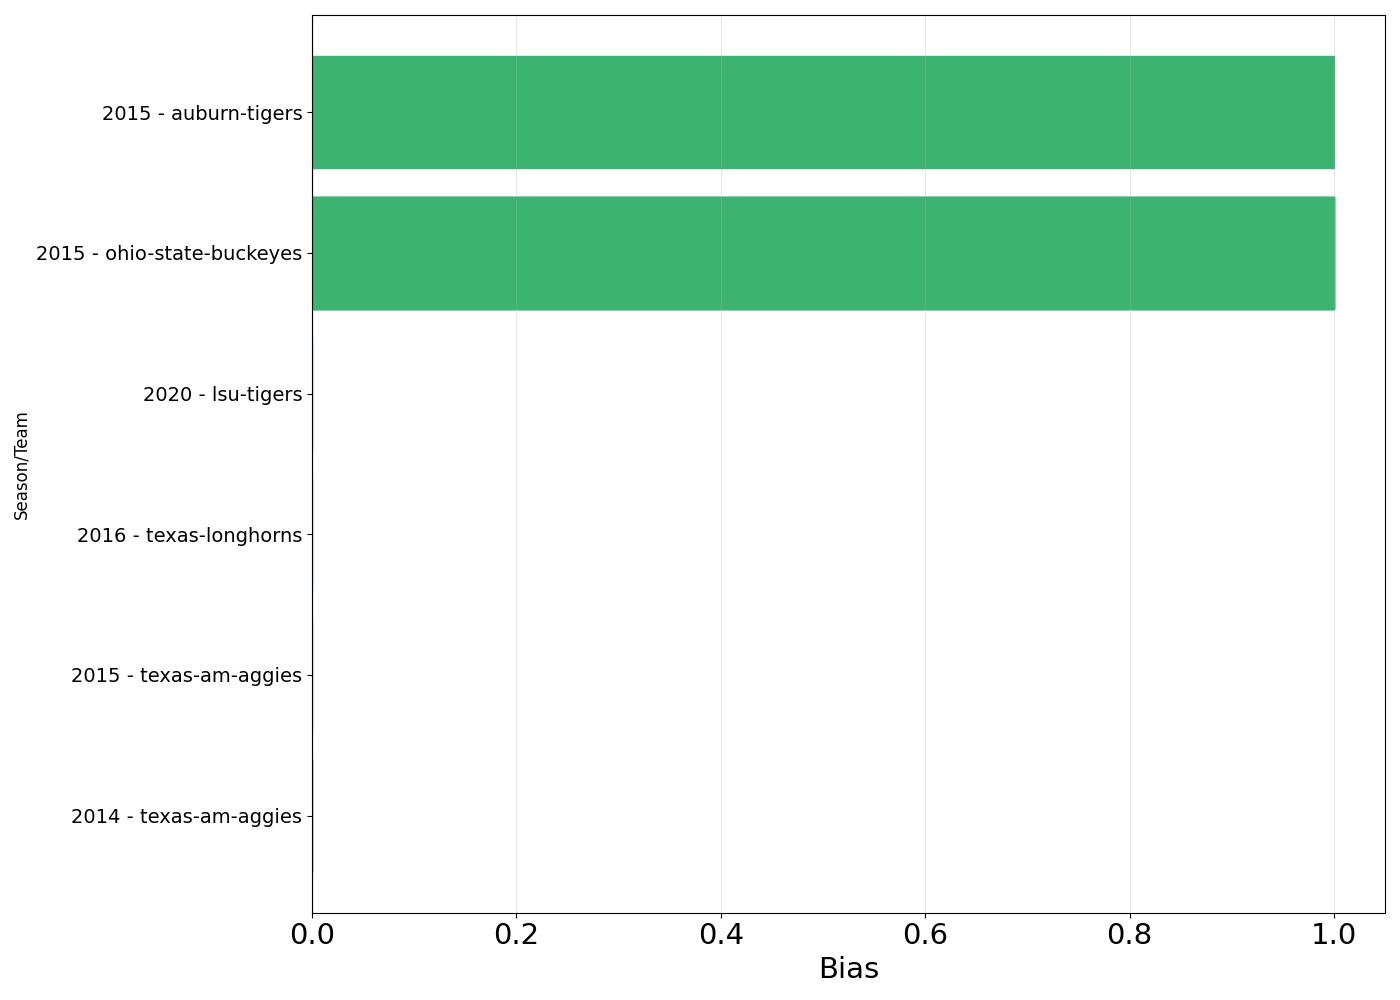
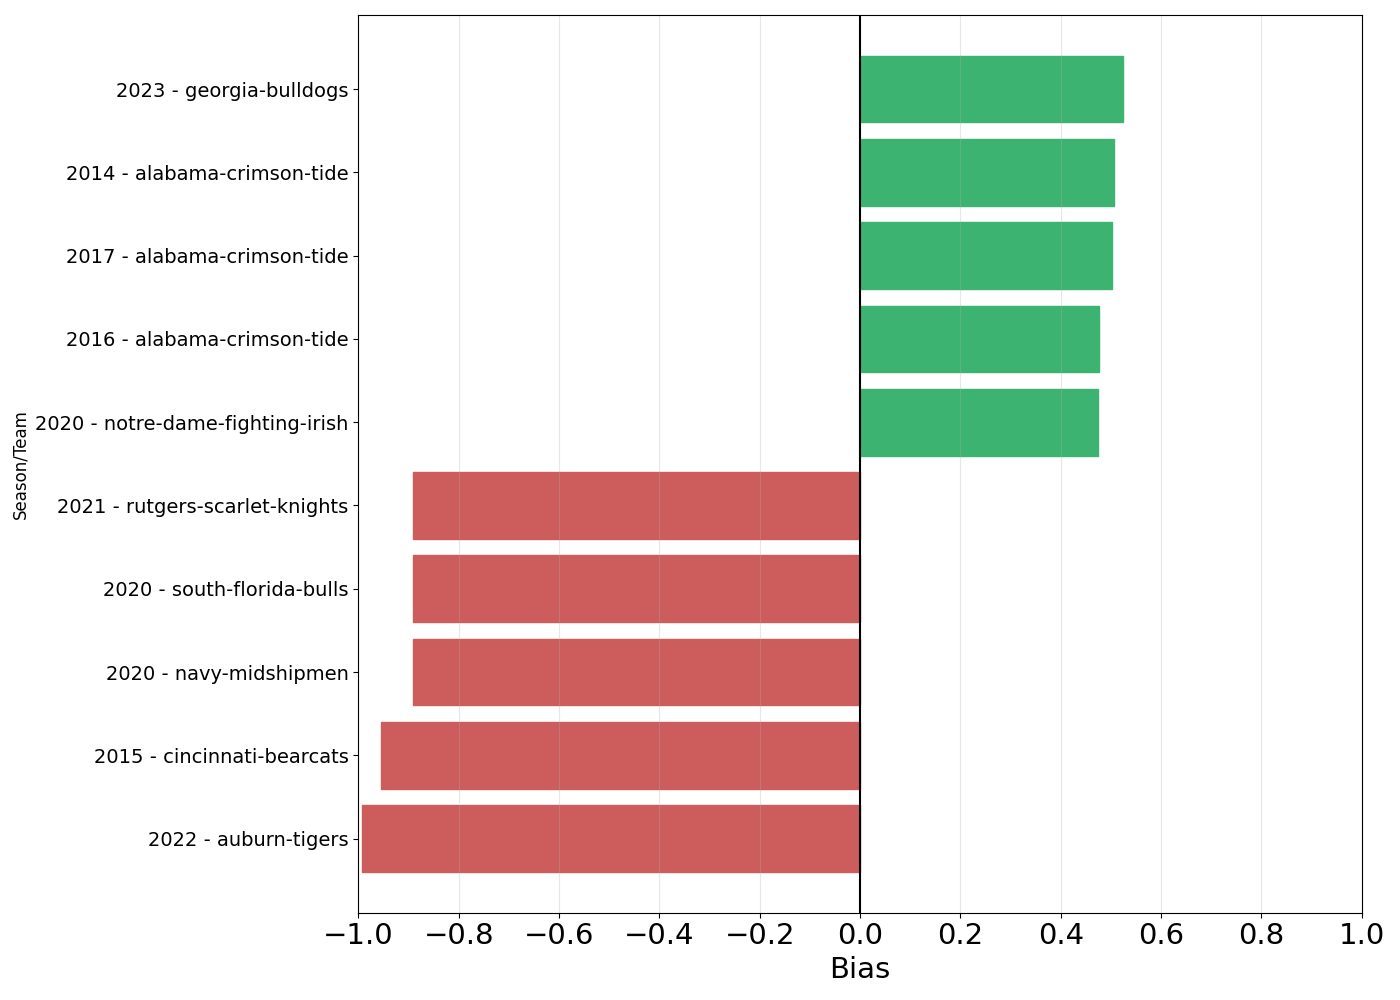
relative bias bar chart updates

diff --git a/scripts/create_visuals.py b/scripts/create_visuals.py
@@ -206,11 +206,11 @@ def create_svc_graph(input_csv: str):
     plt.axvline(x=0, color='black', linestyle='-', linewidth=0.8)
 
     plt.xticks([-1, -0.8, -0.6, -0.4, -0.2, 0, 0.2, 0.4, 0.6, 0.8, 1], fontsize=21) 
+    plt.xlim(-0.5, 0.5)
     plt.yticks(values, y_ticks, fontsize=21) 
     plt.ylabel('Conference', fontsize=21)
     plt.xlabel('Bias', fontsize=21)
     plt.grid(True, alpha=0.3, axis='x')
-    plt.xlim(-0.5, 0.5)
     plt.tight_layout()
     plt.savefig('conference_bias.png')
 
@@ -246,7 +246,7 @@ def create_voterteam_pair(input_csv: str, master_csv: str, min_votes: int = 500)
     plt.tight_layout()
     plt.savefig('voterteam_bias.png')
 
-def create_seasonteam_pair(input_csv: str):
+def create_seasonteam_pair_old(input_csv: str):
     df = pd.read_csv(input_csv)
     df = df.sort_values('bias1-a')
     
@@ -359,7 +359,7 @@ def create_svc_graph_uncorrected(input_csv: str):
     plt.tight_layout()
     plt.savefig('conference_bias.png')
 
-def create_voterteam_pair(input_csv: str, master_csv: str, min_votes: int = 500):
+def create_voterteam_pair(input_csv: str, master_csv: str, min_votes: int = 0):
     analysis_df = pd.read_csv(master_csv)
     voter_vote_counts = analysis_df.groupby('pollster (v)').size().reset_index()
     voter_vote_counts.columns = ['voter', 'total_votes']
@@ -371,6 +371,7 @@ def create_voterteam_pair(input_csv: str, master_csv: str, min_votes: int = 500)
     df = df[df['total_votes'] >= min_votes]
     
     df = df.sort_values('bias1-a')
+    df['bias1-a'] = df['bias1-a'] * 2 - 1
     bottom_5 = df.head(5)
     top_5 = df.tail(5)
     df_plot = pd.concat([bottom_5, top_5])
@@ -393,11 +394,15 @@ def create_voterteam_pair(input_csv: str, master_csv: str, min_votes: int = 500)
 
 def create_seasonteam_pair(input_csv: str):
     df = pd.read_csv(input_csv)
+    df = df.groupby(['season', 'team']).agg({'bias1-a': 'mean'}).reset_index()
     df = df.sort_values('bias1-a')
+    df['bias1-a'] = df['bias1-a'] * 2 - 1
+    print(df)
     
     bottom_5 = df.head(5)
     top_5 = df.tail(5)
     print("TOP", top_5)
+    print("BOTTOM 5", bottom_5)
     df_plot = pd.concat([bottom_5, top_5])
     
     df_plot['label'] = df_plot['season'].astype(str) + ' - ' + df_plot['team']
@@ -411,6 +416,8 @@ def create_seasonteam_pair(input_csv: str):
         print(bar)
         bar.set_color(color)
     
+    plt.xticks([-1, -0.8, -0.6, -0.4, -0.2, 0, 0.2, 0.4, 0.6, 0.8, 1], fontsize=21) 
+    plt.xlim(-1, 1)
     plt.xticks(fontsize=21) 
     plt.yticks(fontsize=14) 
     plt.axvline(x=0, color='black', linestyle='-', linewidth=1.5)
@@ -483,6 +490,7 @@ def create_seasonteam_pair_nc(input_csv: str):
 
 if __name__ == "__main__":
     #graph_weekly_bias("/Users/albertbogdan/IML-FALL2025---Voter-Bias/results/cfb/output_data/season_week_relative.csv")
-    create_svc_graph("results/cfb/output_data/conference_bias_relative.csv")
+    #create_svc_graph("results/cfb/output_data/conference_bias_relative.csv")
     # create_voterteam_pair_nc("output_data/cfb/average_biases/average_biases.csv", "output_data/cfb/cfb_master_bias.csv")
-    #create_voterteam_pair("/Users/albertbogdan/IML-FALL2025---Voter-Bias/results/cfb/output_data/voter_team_relative.csv", "/Users/albertbogdan/IML-FALL2025---Voter-Bias/results/cfb/original_data/master_bias_relative.csv")
+    create_voterteam_pair("/Users/albertbogdan/IML-FALL2025---Voter-Bias/results/cfb/output_data/voter_team_relative.csv", "/Users/albertbogdan/IML-FALL2025---Voter-Bias/results/cfb/original_data/master_bias_relative.csv")
+    #create_seasonteam_pair("/Users/albertbogdan/IML-FALL2025---Voter-Bias/results/cfb/output_data/season_voter_team_relative.csv")
